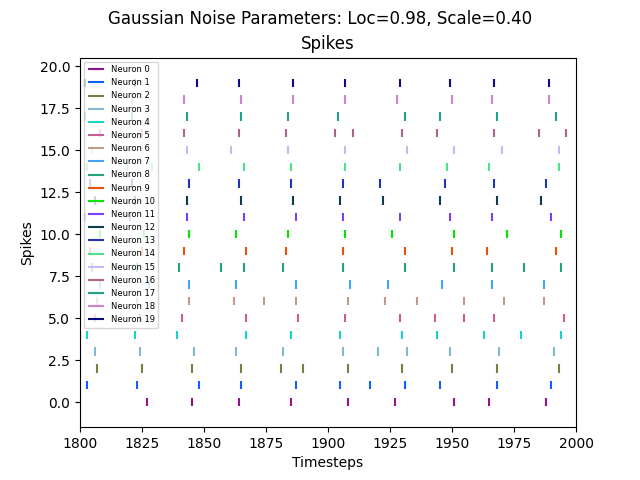
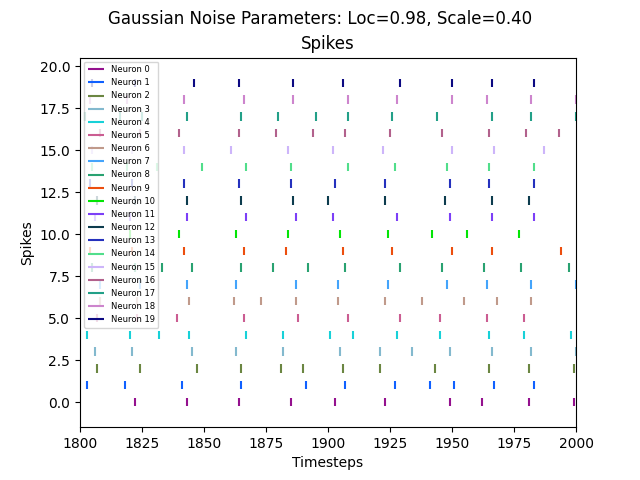
some comments etc

diff --git a/MAIN.py b/MAIN.py
@@ -20,82 +20,76 @@ from matplotlib.path import Path
 
 
 if __name__ == "__main__":
-    # Create a spiking neural network with x neurons
+    
+    # set time steps (ms) for each experimental loop
     timesteps = 2000
 
-    locs = np.linspace(0.8, 1.5, 5)#[0.8, 0.9, 1.0, 1.1, 1.2, 1.3, 1.4, 1.5]
-    scales = np.linspace(0.1, 0.5, 5)#[0, 0.1, 0.2, 0.3, 0.4, 0.5]
-    rsyncs = np.zeros(len(locs)*len(scales))
-    counter = 0
-    lenlocs = 0
-    lenscales = 0
-
-    df = pd.DataFrame({
-      'x': rsyncs,
-      'y': rsyncs,
-      'z': rsyncs
-    })
-
-    df2 = pd.DataFrame({
-      'x': rsyncs,
-      'y': rsyncs,
-      'z': rsyncs
-    })
-
-    fig, ax = plt.subplots(nrows = len(locs), ncols = len(scales))
-    fig.set_figwidth(500)
-    fig.set_figheight(300)
-  
+    # set arrays for different locs and scales that should be trialled
+    locs = np.round(np.linspace(0.8, 1.5, 5), 2)
+    scales = np.round(np.linspace(0.1, 0.5, 5), 2)
     
-    for s in locs:
-        for t in scales:
-            nummys = 0
-            snn = model.SNN(num_neurons=20, time_steps=timesteps, loc = s, scale = t, plot_xlim = [1800,2000])
+    # helper variables
+    loop = 0
+    num_locs = 0
+    num_scales = 0
+
+    # data frames to save rsyncs and spike counts
+    empty_arr = np.zeros(len(locs)*len(scales))
+    df_rsyncs = pd.DataFrame({
+      'x': empty_arr,
+      'y': empty_arr,
+      'z': empty_arr
+    })
+    df_spikes = pd.DataFrame({
+      'x': empty_arr,
+      'y': empty_arr,
+      'z': empty_arr
+    })
+    
+    # subplots for summary image of experimental loop
+    fig, ax = plt.subplots(nrows = len(locs), ncols = len(scales), figsize = (500, 300))  
+    
+    for loc in locs:
+        for scale in scales:
+  
+            # set up the model and connection strength
+            snn = model.SNN(num_neurons=20, time_steps=timesteps, loc = loc, scale = scale, plot_xlim = [1800,2000])
             snn.auto_connect(0.15, 13, 3)
+
             # let the neuron run for x timesteps
             voltage, spikes = snn.simulate(time_steps=timesteps)
            
+            # add rsync and spike count of this experimental loop to data frames
             rsync = snn.rsync_measure(spikes)
-            nummmys = np.sum(spikes)
-            print("NUMM")
-            print(nummmys)
+            spikecount = np.sum(spikes)
           
-            df["x"][counter] = s
-            df["y"][counter] = t
-            df["z"][counter] = rsync
+            df_rsyncs["x"][loop] = loc
+            df_rsyncs["y"][loop] = scale
+            df_rsyncs["z"][loop] = rsync
 
-            df2["x"][counter] = s
-            df2["y"][counter] = t
-            df2["z"][counter] = nummmys
+            df_spikes["x"][loop] = loc
+            df_spikes["y"][loop] = scale
+            df_spikes["z"][loop] = spikecount
 
-            title = snn.plot(spikes)
+            # save spike train plot on respective axis for the summary image
+            file = snn.plot(spikes)
+            img = Image.open(file)
+            ax[num_locs, num_scales].imshow(img)
 
-            img = Image.open(title)
-            ax[lenlocs, lenscales].imshow(img)
+            # update helper variables
+            loop += 1
+            num_scales += 1
 
+        # update helper variables 
+        num_scales = 0
+        num_locs += 1
             
-            
-          
-            counter += 1
-            
-            lenscales += 1
-        lenscales = 0
-        lenlocs += 1
-            
-      
+
+    # save spike train plot of each experimental loop in one image
     plt.savefig("spiky_project/experiments/summary_plots")
-    snn.plot_synchrony(df, df2)
-    #snn.plot_spike_numbers(df2)
-    snn.graph()
-            
 
-    
-    
+    # plot heatmaps of rsyncs and spike counts
+    snn.plot_synchrony(df_rsyncs, df_spikes)
 
-    # loc 1-1.5, scale 0-0.5, step 0.1
-
-    
-    # plot network, voltage and spikes
-    
-
+    #snn.graph()
             

diff --git a/model.py b/model.py
@@ -250,21 +250,20 @@ class SNN:
             ax.legend(loc = "upper left", prop={'size': 6})
             ax.set_xlim(self.plot_xlim)
         
-        #fig.suptitle(f'Metrics: tau={self.tau}, thresh={self.threshold}')
         fig.suptitle(f'Gaussian Noise Parameters: Loc={self.loc:.2f}, Scale={self.scale:.2f}')
         title = f'spiky_project/experiments/loc{self.loc:.2f}_scale{self.scale:.2f}.png'
         plt.savefig(title)
         plt.close()
 
-        #return fig, title
         return title
 
     def graph(self):
 
+        # Initialise graph and list for nodes
         g = nx.DiGraph()
-        
         connected_nodes = []   
         
+        # Connect nodes according to connectivity matrix
         for i in range(self.neurons):
             for j in range(self.neurons):
                 if self.connectivity_matrix[i][j] != 0:
@@ -276,15 +275,16 @@ class SNN:
            if k not in connected_nodes:
               g.add_node(k)
 
+        # Set colours to match the neurons in other plots
         colours = {}
         for m in range(self.neurons):
             colours[m] = self.neuron_colours[m]
 
-        # pos = nx.spring_layout(g, k = 4, seed=seed)
+        # Circular layout
         pos = nx.circular_layout(g)
-            
-        nx.draw(g, node_color=[colours[node] for node in g.nodes], pos=pos, with_labels=True)
-                
+        
+        # Draw graph and save as file
+        nx.draw(g, node_color=[colours[node] for node in g.nodes], pos=pos, with_labels=True)      
         plt.savefig("spiky_project/experiments/graph")
 
 
@@ -292,35 +292,20 @@ class SNN:
         
         sns.set_theme()
     
-        df1 = (
-        df1.pivot(index="y", columns="x", values="z")
-        )
+        # Preprocess data frames
+        df1 = (df1.pivot(index="y", columns="x", values="z"))
+        df2 = (df2.pivot(index="y", columns="x", values="z"))
 
-        df2 = (
-            df2.pivot(index="y", columns="x", values="z")
-        )
-
-        # Draw a heatmap with the numeric values in each cell
-        f, ax = plt.subplots(nrows = 1, ncols = 2, figsize=(50, 30))
-        heatmap1 = sns.heatmap(data = df1, annot = True, linewidths=.5, ax=ax[0], cmap = sns.color_palette("YlOrBr", as_cmap=True))
+        # Two heatmaps with the numeric values with heatmap1 for rsync values and heatmap2 for spike counts
+        fig, ax = plt.subplots(nrows = 1, ncols = 2, figsize=(10, 4))
+        
+        heatmap1 = sns.heatmap(data = df1, annot = True, fmt=".2f", linewidths=.5, ax=ax[0], cmap = sns.color_palette("YlOrBr", as_cmap=True))
         heatmap1.set(xlabel="locs", ylabel="scales")
         heatmap2 = sns.heatmap(data = df2, annot = True, fmt="1.0f", linewidths=.5, ax=ax[1], cmap = sns.color_palette("BuGn", as_cmap=True))
         heatmap2.set(xlabel="locs", ylabel="scales")
-        plt.savefig("spiky_project/experiments/synchrony_heatmap")
+        fig.tight_layout()
 
-    
-    def plot_spike_numbers(self, df):
-        sns.set_theme()
-    
-        df1 = (
-            df.pivot(index="y", columns="x", values="z")
-        )
-
-        # Draw a heatmap with the numeric values in each cell
-        f, ax = plt.subplots(figsize=(9, 6))
-        sns.heatmap(data = df1, annot = True, fmt="1.0f", linewidths=.5, ax=ax, cmap = sns.color_palette("BuGn", as_cmap=True))
-        ax.set(xlabel="locs", ylabel="scales")
-        plt.savefig("spiky_project/experiments/spikes_heatmap")
+        plt.savefig("spiky_project/experiments/synchrony_spikes_heatmaps")
 
 
     

diff --git a/test.py b/test.py
@@ -5,8 +5,8 @@ import random
 
 if __name__ == "__main__":
 
-    V = [1, 1, 0, 1, 0]
-    fired = 1
-    print(V[sum(fired)])
+    hello = np.round(np.linspace(1.5, 2.5, 5),1)
+    
+    print(hello)
 
         
